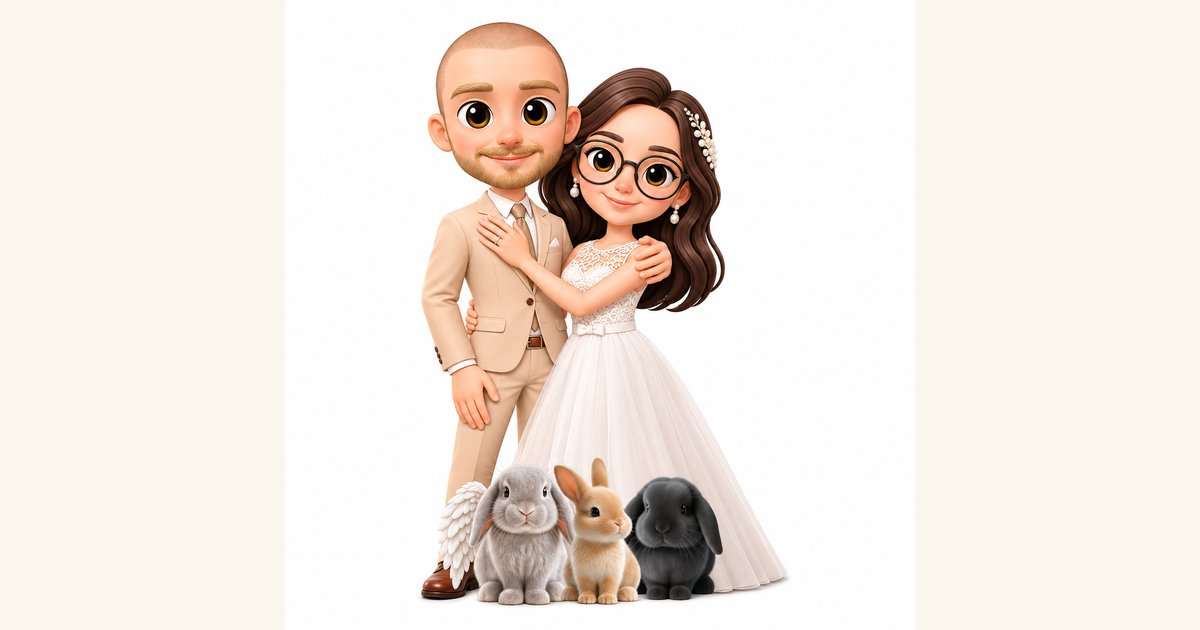
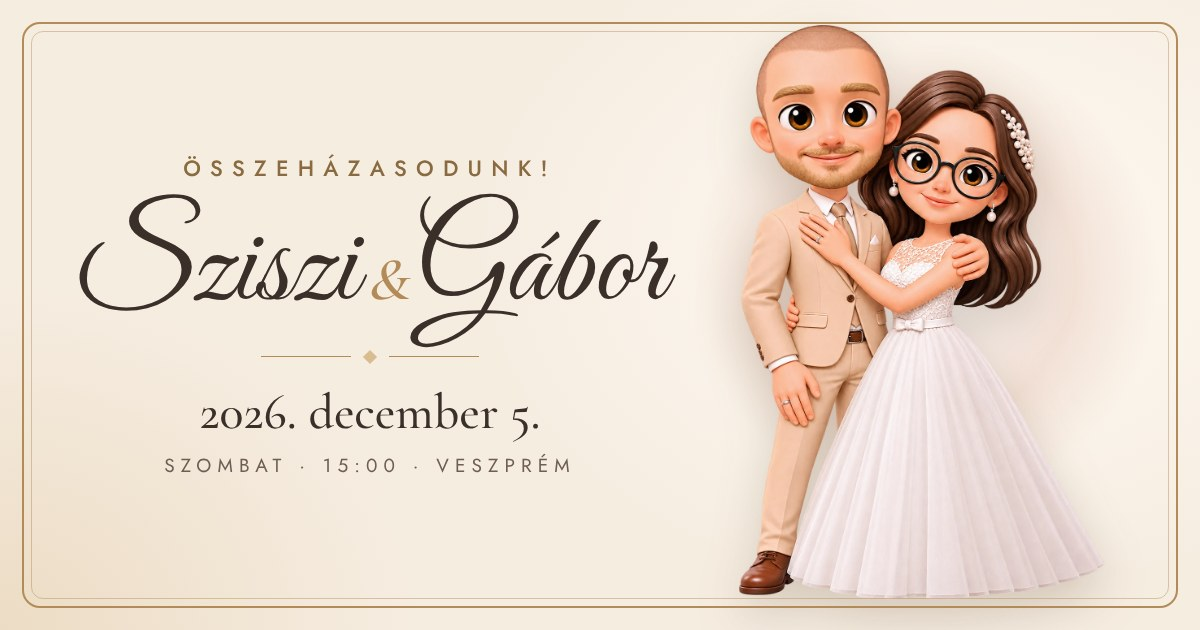
Megosztási előnézet: új OG-kép nevekkel és dátummal, bővített meta tagek
Claude-Session: https://claude.ai/code/session_014qbyansLwdWBtA624ND7t3

diff --git a/index.html b/index.html
@@ -12,12 +12,18 @@
   <meta property="og:type" content="website">
   <meta property="og:locale" content="hu_HU">
   <meta property="og:title" content="Sziszi &amp; Gábor · Összeházasodunk! · 2026. december 5.">
-  <meta property="og:description" content="15:00 polgári szertartás Veszprémben, 16:00-tól vacsora a Betekints Étteremben.">
+  <meta property="og:description" content="Szeretettel meghívunk esküvőnkre! 15:00 polgári szertartás Veszprémben, 16:00-tól vacsora a Betekints Étteremben.">
   <meta property="og:url" content="https://95gabor.github.io/wedding/">
-  <meta property="og:image" content="https://95gabor.github.io/wedding/assets/img/og-image.jpg">
+  <meta property="og:site_name" content="Sziszi &amp; Gábor esküvője">
+  <meta property="og:image" content="https://95gabor.github.io/wedding/assets/img/og-image.jpg?v=2">
+  <meta property="og:image:type" content="image/jpeg">
   <meta property="og:image:width" content="1200">
   <meta property="og:image:height" content="630">
+  <meta property="og:image:alt" content="Sziszi és Gábor rajzolt alakja, mellettük: Összeházasodunk! 2026. december 5., szombat 15:00, Veszprém">
   <meta name="twitter:card" content="summary_large_image">
+  <meta name="twitter:title" content="Sziszi &amp; Gábor · Összeházasodunk! · 2026. december 5.">
+  <meta name="twitter:description" content="15:00 polgári szertartás Veszprémben, 16:00-tól vacsora a Betekints Étteremben.">
+  <meta name="twitter:image" content="https://95gabor.github.io/wedding/assets/img/og-image.jpg?v=2">
 
   <link rel="icon" href="assets/img/favicon.svg" type="image/svg+xml">
   <link rel="preconnect" href="https://fonts.googleapis.com">
